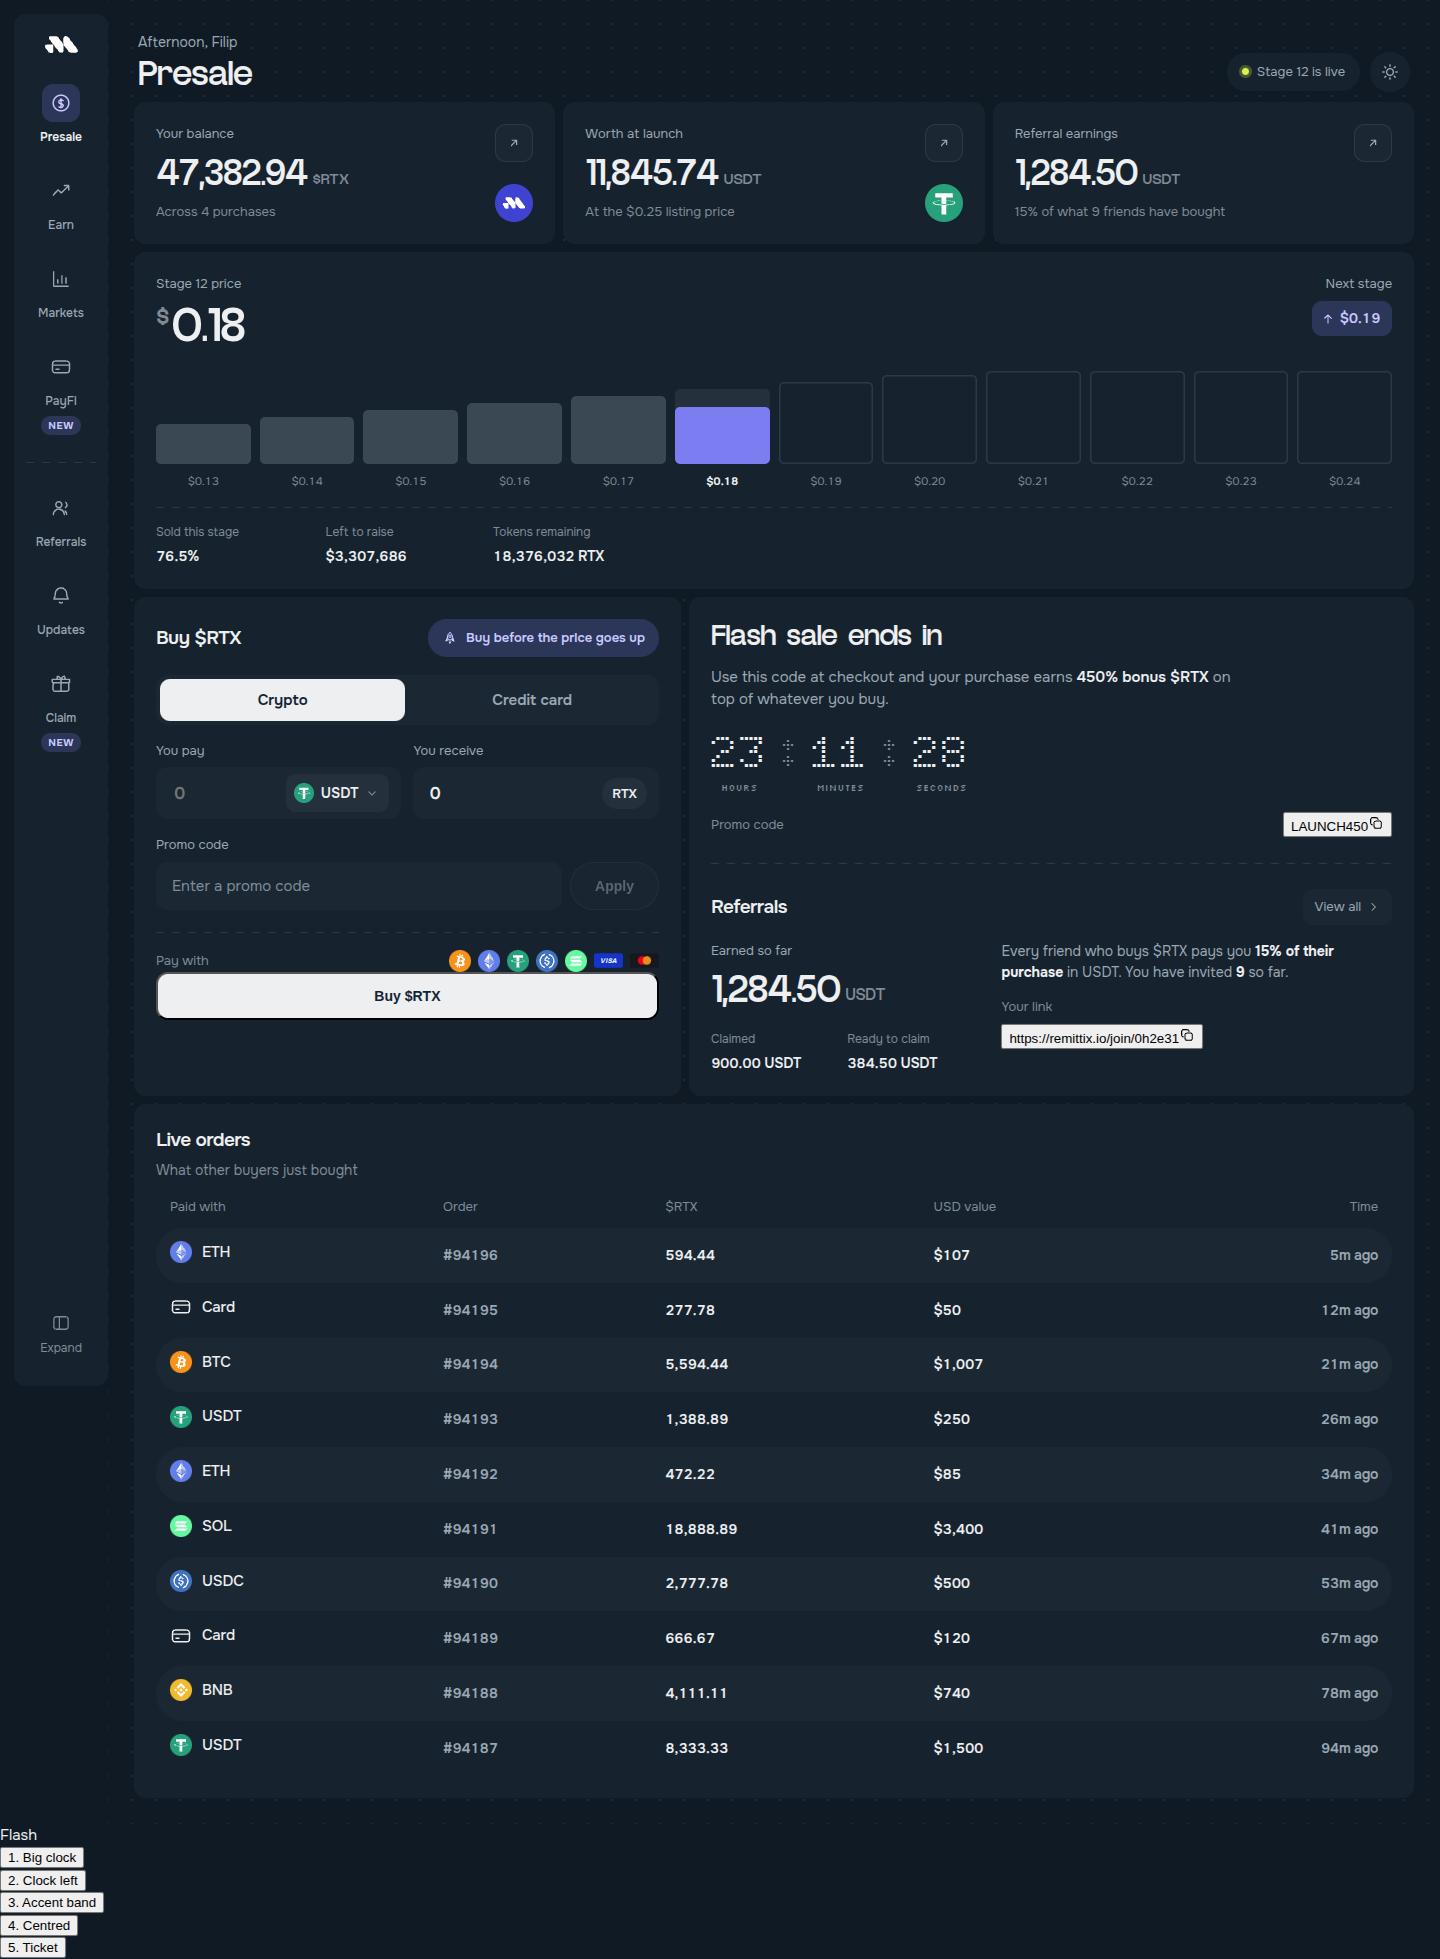
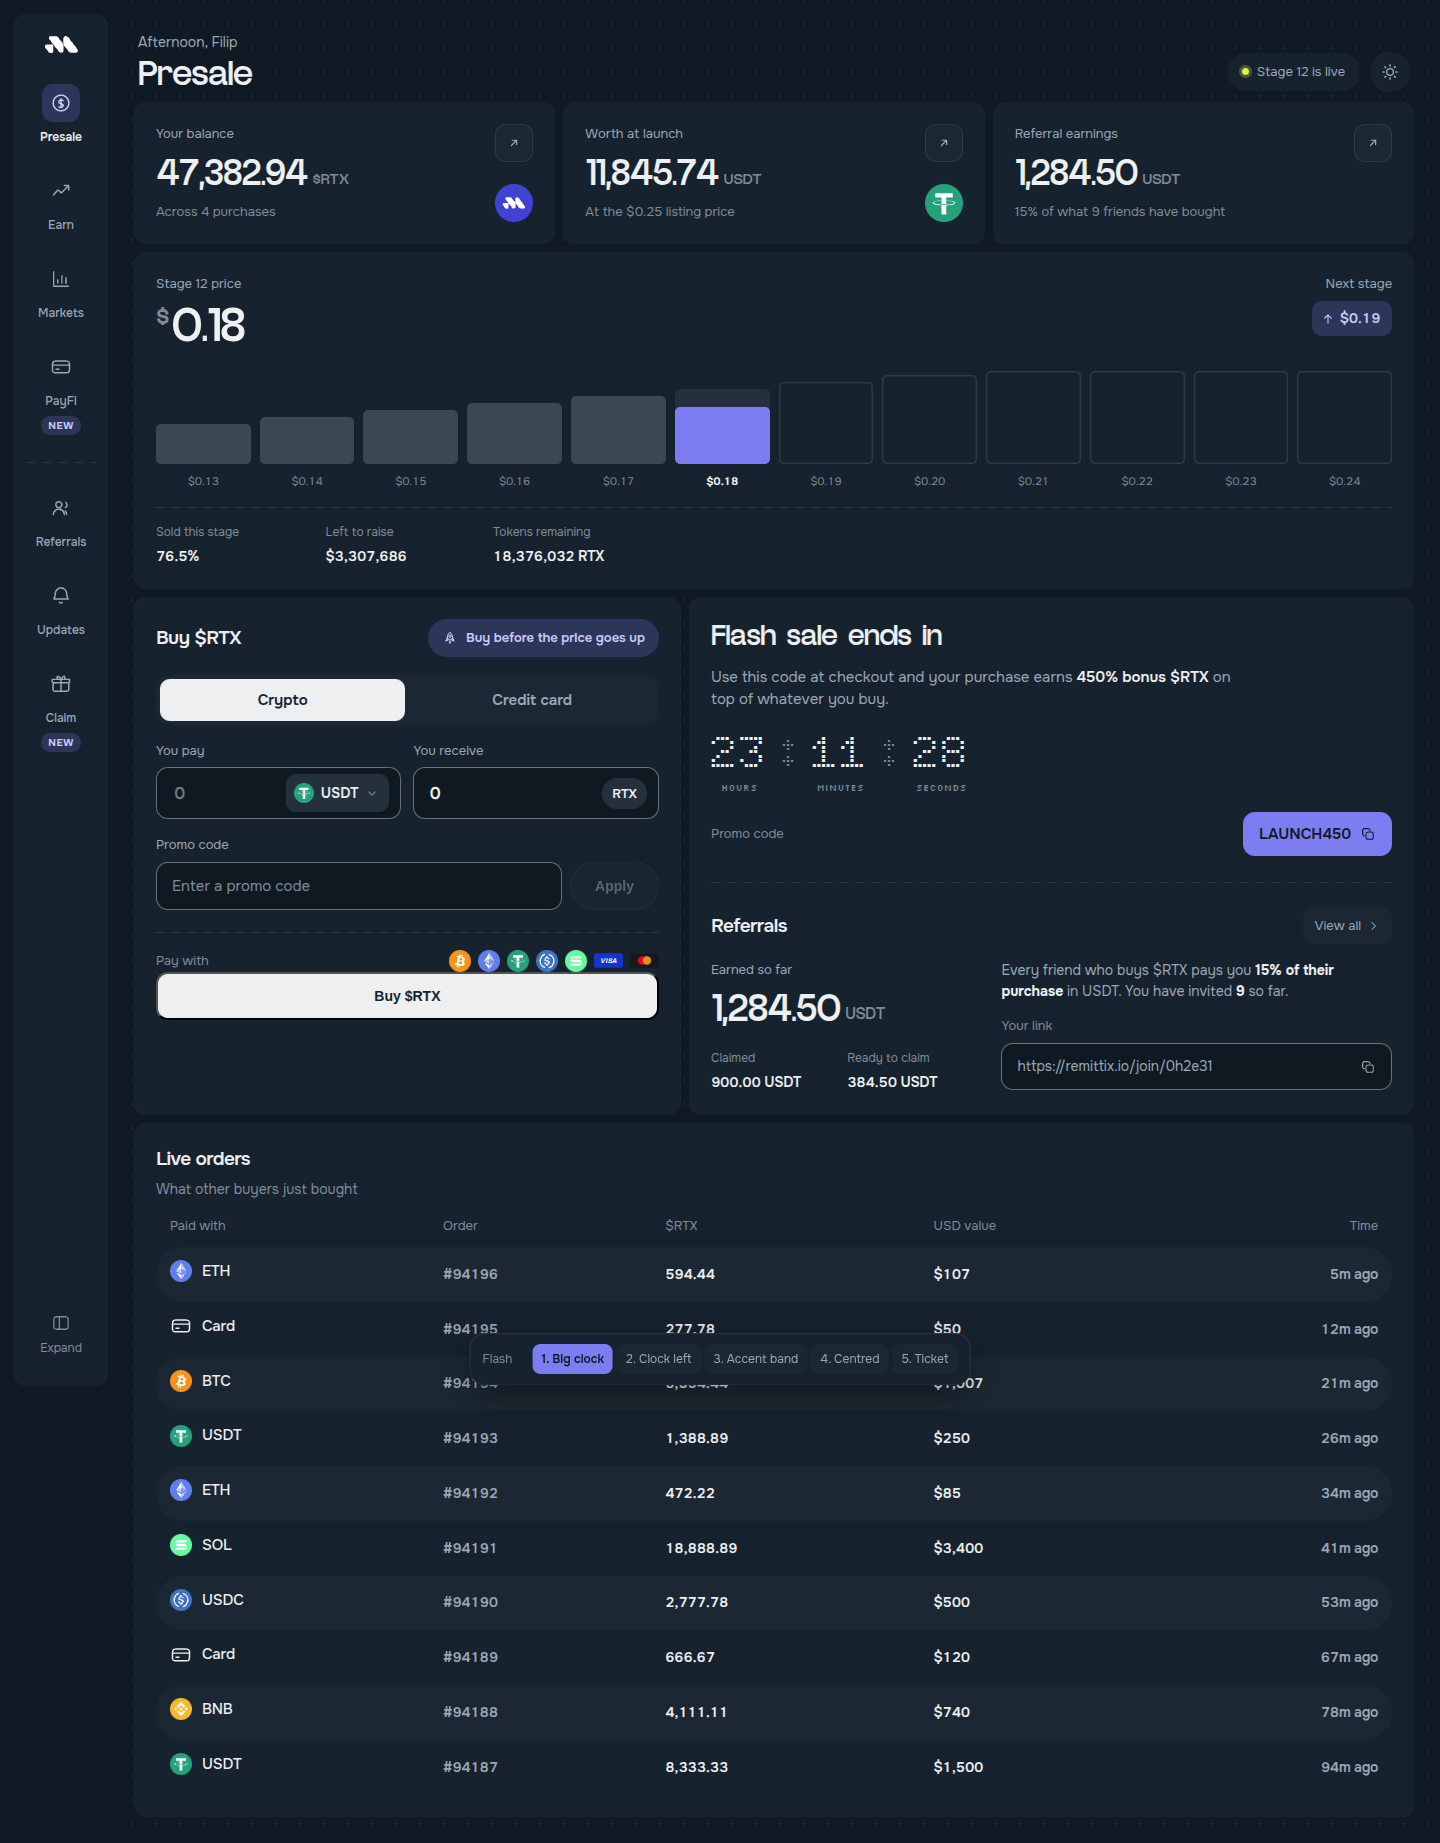
Give the fields a boundary that can actually be seen
Measured, the field ground sat at 1.07:1 against its card in dark and 1.05:1 in
light — no edge at all, which is why they did not read as inputs. A deeper
ground alone only reaches 1.10, so the boundary is a ring: rgba(255,255,255,
.38) on dark and #7A8A9A on light, which measure 3.23:1 and 3.54:1 against the
card and clear the 3:1 WCAG asks of a control boundary. Hover darkens the ring,
focus replaces it with the accent, so a field never shows two rings at once.

The value a field holds loses tracking, from -0.02em to -0.035em, so a long
figure reads as one number rather than spaced digits.

Restores two rulesets an earlier edit had taken with it: the copy buttons,
which had been sitting inside the flash sale block that was replaced wholesale,
and the variant picker, dropped when the first round of variants was removed.

Claude-Session: https://claude.ai/code/session_01T7rccehcWsctzfM8DBEqzJ

diff --git a/src/dashboard/dashboard.css b/src/dashboard/dashboard.css
@@ -51,6 +51,9 @@
   --d-accent-soft: #4a4cc4;
   --d-accent-tint: rgba(123, 125, 240, 0.22);
   --d-on-tint: #c9caff;
+  /* Fields are a well cut into the card, and say so with a ring. */
+  --d-field: #0e1922;
+  --d-field-ring: rgba(255, 255, 255, 0.38);
   --d-accent-hover: #8f91f4;
   --d-on-accent: #0f1a24;
   --d-pick: #edeff1;
@@ -77,6 +80,8 @@
   --d-accent-soft: #b3b5f5;
   --d-accent-tint: rgba(64, 66, 210, 0.09);
   --d-on-tint: #3335bb;
+  --d-field: #f4f6f8;
+  --d-field-ring: #7a8a9a;
   --d-accent-hover: #3335bb;
   --d-on-accent: #ffffff;
   --d-pick: #000000;
@@ -518,10 +523,13 @@ html[data-dash-theme='light'] body { background: #edeff1; }
   padding: 0 16px;
   border: 0;
   border-radius: var(--r-card);
-  background: var(--d-inset);
+  background: var(--d-field);
+  box-shadow: inset 0 0 0 1px var(--d-field-ring);
   color: var(--d-text);
   font: inherit;
+  transition: box-shadow 140ms ease;
 }
+.input:hover { box-shadow: inset 0 0 0 1px var(--d-text-3); }
 .input::placeholder { color: var(--d-text-3); }
 
 .field__label {
@@ -537,11 +545,13 @@ html[data-dash-theme='light'] body { background: #edeff1; }
   height: 52px;
   padding: 0 12px 0 16px;
   border-radius: var(--r-inner);
-  background: var(--d-inset);
-  box-shadow: inset 0 0 0 1.5px transparent;
+  background: var(--d-field);
+  box-shadow: inset 0 0 0 1px var(--d-field-ring);
   transition: box-shadow 140ms ease;
 }
-.field__control:focus-within { box-shadow: inset 0 0 0 1.5px var(--d-accent); }
+.field__control:hover { box-shadow: inset 0 0 0 1px var(--d-text-3); }
+.field__control:focus-within,
+.field__control:focus-within:hover { box-shadow: inset 0 0 0 1.5px var(--d-accent); }
 .field__input {
   width: 100%;
   min-width: 0;
@@ -552,7 +562,7 @@ html[data-dash-theme='light'] body { background: #edeff1; }
   font-size: 17px;
   font-weight: 600;
   font-variant-numeric: tabular-nums;
-  letter-spacing: -0.02em;
+  letter-spacing: -0.035em;
 }
 .field__input--output {
   display: flex;
@@ -1095,3 +1105,72 @@ html[data-dash-theme='light'] body { background: #edeff1; }
 .tsel__code { font-weight: 600; }
 .tsel__name { margin-left: auto; color: var(--d-text-3); font-size: 13px; }
 .tsel__option[aria-selected='true'] .tsel__name { color: inherit; opacity: 0.75; }
+
+/* ---------- Copy buttons ---------- */
+.copy {
+  display: inline-flex;
+  align-items: center;
+  gap: 9px;
+  height: 44px;
+  padding: 0 16px;
+  border: 0;
+  border-radius: var(--r-card);
+  background: var(--d-accent);
+  color: var(--d-on-accent);
+  font: inherit;
+  font-size: 15px;
+  font-weight: 600;
+  cursor: pointer;
+  transition: background-color 160ms ease;
+}
+.copy:hover { background: var(--d-accent-hover); }
+.copy--field {
+  width: 100%;
+  height: auto;
+  justify-content: space-between;
+  padding: 13px 16px;
+  background: var(--d-field);
+  box-shadow: inset 0 0 0 1px var(--d-field-ring);
+  color: var(--d-text-2);
+  font-weight: 400;
+}
+.copy--field:hover { background: var(--d-field); color: var(--d-text); }
+.copy__value--link {
+  overflow: hidden;
+  text-overflow: ellipsis;
+  white-space: nowrap;
+  font-size: 14px;
+}
+
+/* ---------- Variant picker (review only) ---------- */
+.vpick {
+  position: fixed;
+  left: 50%;
+  bottom: 16px;
+  z-index: 60;
+  transform: translateX(-50%);
+  display: flex;
+  flex-direction: column;
+  gap: 6px;
+  padding: 10px 12px;
+  border-radius: 14px;
+  background: var(--d-card);
+  box-shadow: 0 10px 34px rgba(0, 0, 0, 0.4), 0 0 0 1px var(--d-rule);
+  font-size: 12px;
+  max-width: calc(100vw - 24px);
+}
+.vpick__row { display: flex; align-items: center; gap: 4px; flex-wrap: wrap; }
+.vpick__label { width: 46px; flex: none; color: var(--d-text-3); }
+.vpick__opt {
+  border: 0;
+  border-radius: 8px;
+  padding: 6px 9px;
+  background: var(--d-inset);
+  color: var(--d-text-2);
+  font: inherit;
+  font-size: 12px;
+  cursor: pointer;
+}
+.vpick__opt:hover { color: var(--d-text); }
+.vpick__opt[data-active] { background: var(--d-accent); color: var(--d-on-accent); font-weight: 600; }
+@media (max-width: 767px) { .vpick { display: none; } }
